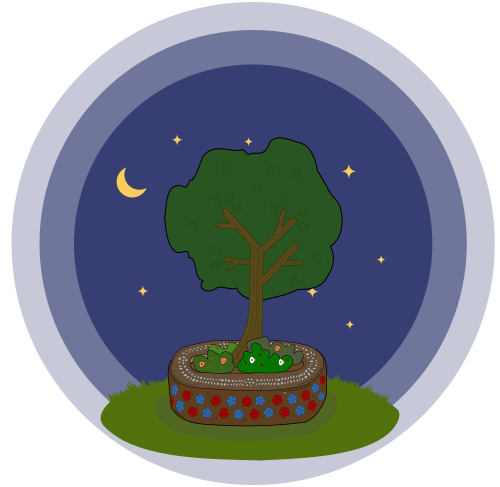
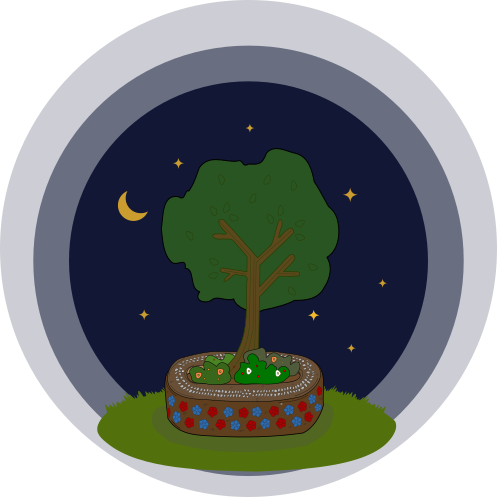
again

diff --git a/dark.css b/dark.css
@@ -22,6 +22,7 @@
     --button-2-2:#236d96;
     --button-2-2-over:#143952;
     --shadow: #8484846b;
+    --night: #13162b;
  }
 
  
@@ -56,7 +57,7 @@
 
 @media screen and (min-width: 701px) {
     .clouds-new2  {
-      background-image: linear-gradient(var(--top-header),var(--general-background),var(--general-background),var(--general-background));
+      background-image: linear-gradient(var(--night),var(--general-background),var(--general-background));
     /*  background: url(../svgs/top-clouds-desktop-animate-to-static2.svg) center top repeat-x ;
               box-sizing: border-box;
           background-size: 100%;*/

diff --git a/en/index.php b/en/index.php
@@ -126,6 +126,7 @@ border: none;
 right: 0;
 left: 0;
 border: none;
+cursor:pointer;
 }
 
 
@@ -133,8 +134,10 @@ border: none;
 
 .top-menu-login-button {
     font-family:'Mulish';
+    background: none;
     border:0.5px;
     border-style:solid;
+
     border-radius:5px;
     margin: auto;
     margin-top:2px;
@@ -1211,7 +1214,7 @@ if (!$conn) {
 
  
             
-    <div class="clouds-new2">
+    <div class="clouds-new2" style="padding-top:35px;">
         <div id="landing-content">
 
             <!--<div class="top-graphic"><img src="../svgs/dolphin-top-optimized.svg" width="100%"></div>-->
